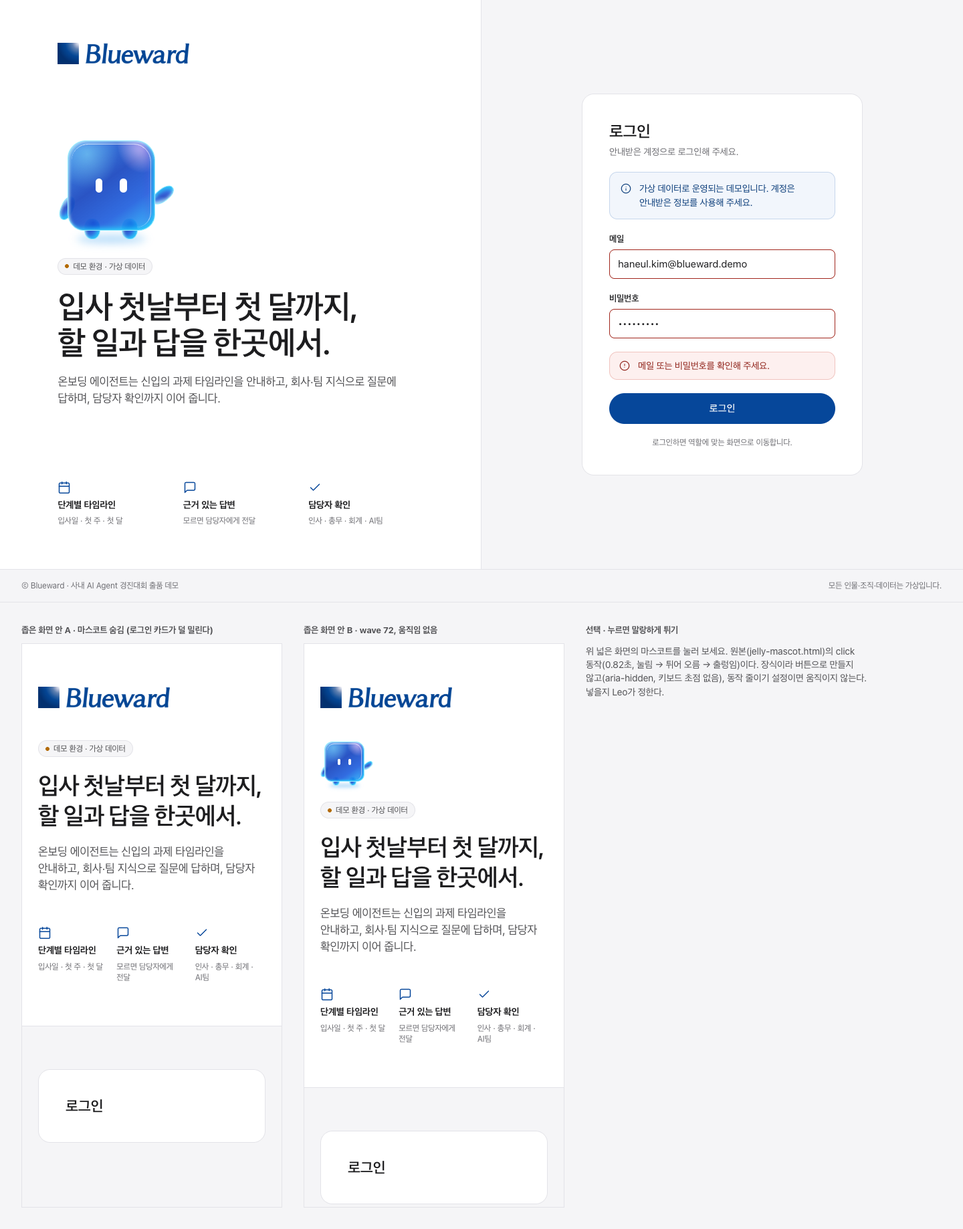
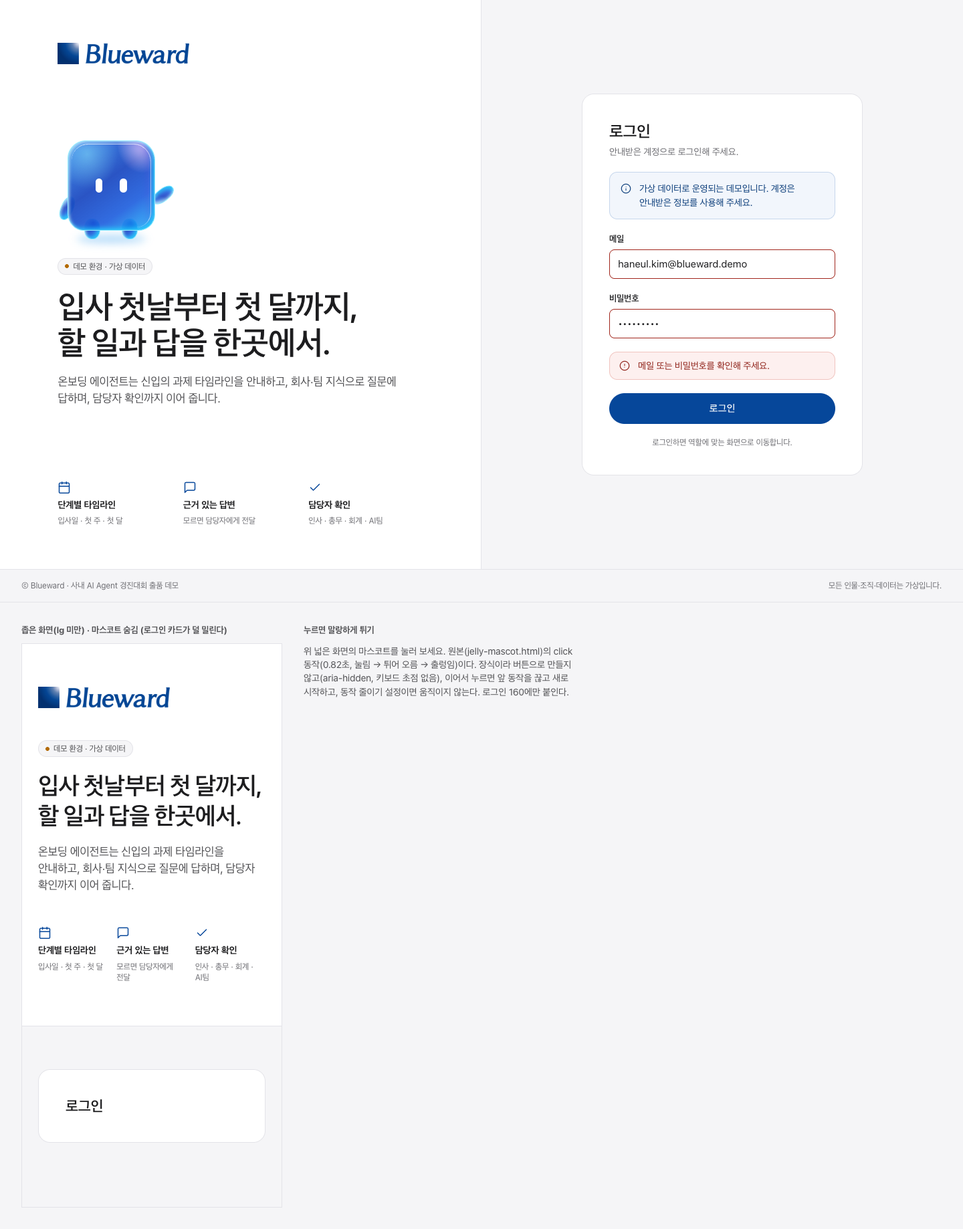
docs(design): settle the mascot options
Leo picked the options: the mobile ask button puts a sitting mascot in a
white circle, the login hides the mascot on narrow screens, the login
mascot bounces when tapped, and the waiting bubble shows a sitting
mascot (both right after sending and after 8 seconds). Drop the options
not taken from the mockups and finalize the system.md table.

diff --git a/docs/design/onboarding-design/screens/S0-system.html b/docs/design/onboarding-design/screens/S0-system.html
@@ -212,21 +212,20 @@
       <div class="grid-3" style="gap: 16px">
         <figure class="m-fig"><div class="m-stage" style="background: var(--surface)"><span class="mascot s-88" aria-hidden="true"><span class="shadow"></span><span class="float"><span class="cube"><i class="limb foot l"></i><i class="limb foot r"></i><i class="limb arm l"></i><i class="limb arm r"></i><span class="face"><i class="eye l"></i><i class="eye r"></i></span></span></span></span></div><b>stand · 에이전트 정체</b><span class="caption">채팅 머리(36). 지금 말하는 상대가 에이전트임을 알린다</span></figure>
         <figure class="m-fig"><div class="m-stage" style="background: var(--selected)"><span class="mascot s-88 is-wave is-idle" aria-hidden="true"><span class="shadow"></span><span class="float"><span class="cube"><i class="limb foot l"></i><i class="limb foot r"></i><i class="limb arm l"></i><i class="limb arm r"></i><span class="face"><i class="eye l"></i><i class="eye r"></i></span></span></span></span></div><b>wave · 환영·완료</b><span class="caption">대화 전 소개(88·72), 로그인(160), 모두 완료(48)</span></figure>
-        <figure class="m-fig"><div class="m-stage" style="background: var(--surface-chat)"><span class="mascot s-88 is-sit" aria-hidden="true"><span class="shadow"></span><span class="float"><span class="cube"><i class="limb foot l"></i><i class="limb foot r"></i><i class="limb arm l"></i><i class="limb arm r"></i><span class="face"><i class="eye l"></i><i class="eye r"></i></span></span></span></span></div><b>sit · 버튼 아이콘·기다림</b><span class="caption">모바일 묻기 버튼(28), 답변 기다림 안 B(20)</span></figure>
+        <figure class="m-fig"><div class="m-stage" style="background: var(--surface-chat)"><span class="mascot s-88 is-sit" aria-hidden="true"><span class="shadow"></span><span class="float"><span class="cube"><i class="limb foot l"></i><i class="limb foot r"></i><i class="limb arm l"></i><i class="limb arm r"></i><span class="face"><i class="eye l"></i><i class="eye r"></i></span></span></span></span></div><b>sit · 버튼 아이콘·기다림</b><span class="caption">모바일 묻기 버튼(28), 답변 기다림(20)</span></figure>
       </div>
 
       <div class="col" style="gap: 12px">
         <span class="label">크기 단계 · 이 일곱 값만 쓴다</span>
-        <div class="m-sizes"><figure class="m-size"><span class="mascot s-20 is-sit" aria-hidden="true"><span class="float"><span class="cube"><i class="limb foot l"></i><i class="limb foot r"></i><i class="limb arm l"></i><i class="limb arm r"></i><span class="face"><i class="eye l"></i><i class="eye r"></i></span></span></span></span><b>20</b><span class="caption">sit · S4 기다림(안 B)</span></figure><figure class="m-size"><span class="mascot s-28 is-sit" aria-hidden="true"><span class="float"><span class="cube"><i class="limb foot l"></i><i class="limb foot r"></i><i class="limb arm l"></i><i class="limb arm r"></i><span class="face"><i class="eye l"></i><i class="eye r"></i></span></span></span></span><b>28</b><span class="caption">sit · 모바일 묻기 버튼</span></figure><figure class="m-size"><span class="mascot s-36" aria-hidden="true"><span class="float"><span class="cube"><i class="limb foot l"></i><i class="limb foot r"></i><i class="limb arm l"></i><i class="limb arm r"></i><span class="face"><i class="eye l"></i><i class="eye r"></i></span></span></span></span><b>36</b><span class="caption">stand · 채팅 머리</span></figure><figure class="m-size"><span class="mascot s-48 is-wave" aria-hidden="true"><span class="float"><span class="cube"><i class="limb foot l"></i><i class="limb foot r"></i><i class="limb arm l"></i><i class="limb arm r"></i><span class="face"><i class="eye l"></i><i class="eye r"></i></span></span></span></span><b>48</b><span class="caption">wave · S2 모두 완료</span></figure><figure class="m-size"><span class="mascot s-72 is-wave" aria-hidden="true"><span class="shadow"></span><span class="float"><span class="cube"><i class="limb foot l"></i><i class="limb foot r"></i><i class="limb arm l"></i><i class="limb arm r"></i><span class="face"><i class="eye l"></i><i class="eye r"></i></span></span></span></span><b>72</b><span class="caption">wave · 모바일 대화 전 · 로그인 좁은 화면(안 B)</span></figure><figure class="m-size"><span class="mascot s-88 is-wave is-idle" aria-hidden="true"><span class="shadow"></span><span class="float"><span class="cube"><i class="limb foot l"></i><i class="limb foot r"></i><i class="limb arm l"></i><i class="limb arm r"></i><span class="face"><i class="eye l"></i><i class="eye r"></i></span></span></span></span><b>88</b><span class="caption">wave · 데스크톱 대화 전 · 움직임</span></figure><figure class="m-size"><span class="mascot s-160 is-wave is-idle" aria-hidden="true"><span class="shadow"></span><span class="float"><span class="cube"><i class="limb foot l"></i><i class="limb foot r"></i><i class="limb arm l"></i><i class="limb arm r"></i><span class="face"><i class="eye l"></i><i class="eye r"></i></span></span></span></span><b>160</b><span class="caption">wave · 로그인 넓은 화면 · 움직임</span></figure></div>
+        <div class="m-sizes"><figure class="m-size"><span class="mascot s-20 is-sit" aria-hidden="true"><span class="float"><span class="cube"><i class="limb foot l"></i><i class="limb foot r"></i><i class="limb arm l"></i><i class="limb arm r"></i><span class="face"><i class="eye l"></i><i class="eye r"></i></span></span></span></span><b>20</b><span class="caption">sit · S4 답변 기다림</span></figure><figure class="m-size"><span class="mascot s-28 is-sit" aria-hidden="true"><span class="float"><span class="cube"><i class="limb foot l"></i><i class="limb foot r"></i><i class="limb arm l"></i><i class="limb arm r"></i><span class="face"><i class="eye l"></i><i class="eye r"></i></span></span></span></span><b>28</b><span class="caption">sit · 모바일 묻기 버튼</span></figure><figure class="m-size"><span class="mascot s-36" aria-hidden="true"><span class="float"><span class="cube"><i class="limb foot l"></i><i class="limb foot r"></i><i class="limb arm l"></i><i class="limb arm r"></i><span class="face"><i class="eye l"></i><i class="eye r"></i></span></span></span></span><b>36</b><span class="caption">stand · 채팅 머리</span></figure><figure class="m-size"><span class="mascot s-48 is-wave" aria-hidden="true"><span class="float"><span class="cube"><i class="limb foot l"></i><i class="limb foot r"></i><i class="limb arm l"></i><i class="limb arm r"></i><span class="face"><i class="eye l"></i><i class="eye r"></i></span></span></span></span><b>48</b><span class="caption">wave · S2 모두 완료</span></figure><figure class="m-size"><span class="mascot s-72 is-wave" aria-hidden="true"><span class="shadow"></span><span class="float"><span class="cube"><i class="limb foot l"></i><i class="limb foot r"></i><i class="limb arm l"></i><i class="limb arm r"></i><span class="face"><i class="eye l"></i><i class="eye r"></i></span></span></span></span><b>72</b><span class="caption">wave · 모바일 대화 전</span></figure><figure class="m-size"><span class="mascot s-88 is-wave is-idle" aria-hidden="true"><span class="shadow"></span><span class="float"><span class="cube"><i class="limb foot l"></i><i class="limb foot r"></i><i class="limb arm l"></i><i class="limb arm r"></i><span class="face"><i class="eye l"></i><i class="eye r"></i></span></span></span></span><b>88</b><span class="caption">wave · 데스크톱 대화 전 · 움직임</span></figure><figure class="m-size"><span class="mascot s-160 is-wave is-idle" aria-hidden="true"><span class="shadow"></span><span class="float"><span class="cube"><i class="limb foot l"></i><i class="limb foot r"></i><i class="limb arm l"></i><i class="limb arm r"></i><span class="face"><i class="eye l"></i><i class="eye r"></i></span></span></span></span><b>160</b><span class="caption">wave · 로그인 넓은 화면 · 움직임 · 누르면 튀기</span></figure></div>
         <span class="caption">그림자는 64px 이상(72·88·160)에서만. 둥실 뜨기·깜빡임·손 흔들기 반복은 88px 이상에서만 켜고, 동작 줄이기 설정이면 모두 멈춘다.</span>
       </div>
 
       <div class="grid-2" style="align-items: start">
         <div class="col" style="gap: 12px">
-          <span class="label">모바일 "에이전트에게 묻기" 버튼 · 두 안 (Leo가 고른다)</span>
+          <span class="label">모바일 "에이전트에게 묻기" 버튼 · 흰 원 안에 sit 28</span>
           <div class="m-fab-row">
-            <figure class="m-fab"><a class="btn btn-primary btn-ask" style="box-shadow: 0 8px 24px rgba(6, 71, 154, 0.35)"><span class="mascot-base"><span class="mascot s-28 is-sit" aria-hidden="true"><span class="float"><span class="cube"><i class="limb foot l"></i><i class="limb foot r"></i><i class="limb arm l"></i><i class="limb arm r"></i><span class="face"><i class="eye l"></i><i class="eye r"></i></span></span></span></span></span>에이전트에게 묻기</a><b>안 A · 흰 원(36) 안에 sit 28</b><span class="caption">파란 면 위에 흰 바탕을 깔아 반투명이 묻히지 않는다. 버튼 높이 44 그대로</span></figure>
-            <figure class="m-fab"><a class="btn btn-primary" style="box-shadow: 0 8px 24px rgba(6, 71, 154, 0.35)"><svg class="ic" viewBox="0 0 24 24" aria-hidden="true"><path d="M21 15a2 2 0 0 1-2 2H7l-4 4V5a2 2 0 0 1 2-2h14a2 2 0 0 1 2 2z"></path></svg>에이전트에게 묻기</a><b>안 B · 지금 아이콘 그대로</b><span class="caption">마스코트는 패널을 연 뒤 머리·소개에서 만난다</span></figure>
+            <figure class="m-fab"><a class="btn btn-primary btn-ask" style="box-shadow: 0 8px 24px rgba(6, 71, 154, 0.35)"><span class="mascot-base"><span class="mascot s-28 is-sit" aria-hidden="true"><span class="float"><span class="cube"><i class="limb foot l"></i><i class="limb foot r"></i><i class="limb arm l"></i><i class="limb arm r"></i><span class="face"><i class="eye l"></i><i class="eye r"></i></span></span></span></span></span>에이전트에게 묻기</a><b>흰 원(36) 안에 sit 28</b><span class="caption">파란 면 위에 흰 바탕을 깔아 반투명이 묻히지 않는다. 버튼 높이 44 그대로</span></figure>
           </div>
           <figure class="m-fab m-dont"><a class="btn btn-primary" style="box-shadow: 0 8px 24px rgba(6, 71, 154, 0.35)"><span class="mascot s-28 is-sit" aria-hidden="true"><span class="float"><span class="cube"><i class="limb foot l"></i><i class="limb foot r"></i><i class="limb arm l"></i><i class="limb arm r"></i><span class="face"><i class="eye l"></i><i class="eye r"></i></span></span></span></span>에이전트에게 묻기</a><b>쓰지 않음 · 파란 면 위에 바로</b><span class="caption">테두리·빛이 파랑에 묻혀 얼룩처럼 보인다</span></figure>
         </div>
@@ -253,7 +252,7 @@
       </div>
 
       <dl class="spec plain" style="grid-template-columns: 96px 1fr">
-        <dt>쓰는 자리</dt><dd class="secondary">S4 채팅 머리(stand 36) · S4 대화 전 소개(wave 88, 모바일 72) · 모바일 묻기 버튼(sit 28, 안 A일 때) · S2 모두 완료(wave 48) · S1 로그인 소개(wave 160) · S4 답변 기다림(sit 20, 안 B일 때)</dd>
+        <dt>쓰는 자리</dt><dd class="secondary">S4 채팅 머리(stand 36) · S4 대화 전 소개(wave 88, 모바일 72) · 모바일 묻기 버튼(sit 28, 흰 원 안) · S2 모두 완료(wave 48) · S1 로그인 소개(wave 160, 넓은 화면만, 누르면 튀기) · S4 답변 기다림(sit 20)</dd>
         <dt>쓰지 않는 자리</dt><dd class="secondary">상단 바 Blueward 로고 · 역할 배지 · 표·상태 배지·버튼 안(모바일 묻기 버튼 제외) · 인쇄 화면(S8)·명함 미리보기 · 오류 안내(LoadError) · 빈 목록(EmptyState) · 담당자·관리자 화면. 역할별로 색을 바꾸거나 이름·말투를 붙이지 않는다</dd>
       </dl>
     </div>

diff --git a/docs/design/onboarding-design/screens/S1-login.html b/docs/design/onboarding-design/screens/S1-login.html
@@ -19,7 +19,7 @@ a{color:var(--primary)}a:hover{color:var(--primary-pressed)}
     <section style="flex: 1 1 480px; min-width: 0; padding: 64px clamp(24px, 6vw, 96px); display: flex; flex-direction: column; justify-content: space-between; gap: 48px; background: #ffffff; border-right: 1px solid var(--border)">
       <img src="../assets/blueward-logo.png" alt="Blueward" style="height: 32px; width: auto; align-self: flex-start">
       <div style="display: flex; flex-direction: column; gap: 20px; max-width: 520px">
-        <!-- 넓은 화면(lg 이상): wave 160, 움직임 켬. 장식이라 aria-hidden, 버튼으로 만들지 않는다 -->
+        <!-- 넓은 화면(lg 이상): wave 160, 움직임 켬, 누르면 튄다. 장식이라 aria-hidden, 버튼으로 만들지 않는다 -->
         <span class="mascot s-160 is-wave is-idle js-press" aria-hidden="true"><span class="shadow"></span><span class="float"><span class="cube"><i class="limb foot l"></i><i class="limb foot r"></i><i class="limb arm l"></i><i class="limb arm r"></i><span class="face"><i class="eye l"></i><i class="eye r"></i></span></span></span></span>
         <span class="demo-chip" style="align-self: flex-start"><span class="demo-dot"></span>데모 환경 · 가상 데이터</span>
         <h1 style="font-size: 48px; line-height: 54px; letter-spacing: -0.6px">입사 첫날부터 첫 달까지,<br>할 일과 답을 한곳에서.</h1>
@@ -76,10 +76,10 @@ a{color:var(--primary)}a:hover{color:var(--primary-pressed)}
   </footer>
 </div>
 
-<!-- 좁은 화면(lg 미만, 소개가 로그인 카드 위로 쌓인다) 두 안. Leo가 고른다 -->
+<!-- 좁은 화면(lg 미만, 소개가 로그인 카드 위로 쌓인다): 마스코트를 숨긴다(Leo 결정 2026-11-20) -->
 <div style="padding: 32px; background: var(--canvas); border-top: 1px solid var(--border); display: flex; flex-wrap: wrap; gap: 32px; align-items: flex-start">
   <div style="display: flex; flex-direction: column; gap: 10px">
-    <b style="font-size: 13px; color: var(--secondary)">좁은 화면 안 A · 마스코트 숨김 (로그인 카드가 덜 밀린다)</b>
+    <b style="font-size: 13px; color: var(--secondary)">좁은 화면(lg 미만) · 마스코트 숨김 (로그인 카드가 덜 밀린다)</b>
     <div style="width: 390px; height: 844px; overflow: hidden; background: var(--canvas); border: 1px solid var(--border)">
       <section style="padding: 64px 24px; display: flex; flex-direction: column; gap: 48px; background: #ffffff; border-bottom: 1px solid var(--border)">
         <img src="../assets/blueward-logo.png" alt="Blueward" style="height: 32px; width: auto; align-self: flex-start">
@@ -97,33 +97,14 @@ a{color:var(--primary)}a:hover{color:var(--primary-pressed)}
       <section style="padding: 64px 24px"><div class="card" style="padding: 40px"><h2 style="font-size: 22px; line-height: 28px">로그인</h2></div></section>
     </div>
   </div>
-  <div style="display: flex; flex-direction: column; gap: 10px">
-    <b style="font-size: 13px; color: var(--secondary)">좁은 화면 안 B · wave 72, 움직임 없음</b>
-    <div style="width: 390px; height: 844px; overflow: hidden; background: var(--canvas); border: 1px solid var(--border)">
-      <section style="padding: 64px 24px; display: flex; flex-direction: column; gap: 48px; background: #ffffff; border-bottom: 1px solid var(--border)">
-        <img src="../assets/blueward-logo.png" alt="Blueward" style="height: 32px; width: auto; align-self: flex-start">
-        <div style="display: flex; flex-direction: column; gap: 20px">
-          <span class="mascot s-72 is-wave" aria-hidden="true"><span class="shadow"></span><span class="float"><span class="cube"><i class="limb foot l"></i><i class="limb foot r"></i><i class="limb arm l"></i><i class="limb arm r"></i><span class="face"><i class="eye l"></i><i class="eye r"></i></span></span></span></span><span class="demo-chip" style="align-self: flex-start"><span class="demo-dot"></span>데모 환경 · 가상 데이터</span>
-          <h1 style="font-size: 36px; line-height: 45px; letter-spacing: -0.6px">입사 첫날부터 첫 달까지,<br>할 일과 답을 한곳에서.</h1>
-          <p style="font-size: 17px; line-height: 25px; color: var(--secondary)">온보딩 에이전트는 신입의 과제 타임라인을 안내하고, 회사·팀 지식으로 질문에 답하며, 담당자 확인까지 이어 줍니다.</p>
-        </div>
-        <div class="grid-3" style="gap: 12px">
-          <div style="display: flex; flex-direction: column; gap: 6px"><svg class="ic ic-lg" viewBox="0 0 24 24" aria-hidden="true" style="color: var(--primary)"><rect x="3" y="4" width="18" height="18" rx="2"></rect><path d="M16 2v4M8 2v4M3 10h18"></path></svg><b style="font-size: 14px">단계별 타임라인</b><span class="caption">입사일 · 첫 주 · 첫 달</span></div>
-          <div style="display: flex; flex-direction: column; gap: 6px"><svg class="ic ic-lg" viewBox="0 0 24 24" aria-hidden="true" style="color: var(--primary)"><path d="M21 15a2 2 0 0 1-2 2H7l-4 4V5a2 2 0 0 1 2-2h14a2 2 0 0 1 2 2z"></path></svg><b style="font-size: 14px">근거 있는 답변</b><span class="caption">모르면 담당자에게 전달</span></div>
-          <div style="display: flex; flex-direction: column; gap: 6px"><svg class="ic ic-lg" viewBox="0 0 24 24" aria-hidden="true" style="color: var(--primary)"><path d="M20 6 9 17l-5-5"></path></svg><b style="font-size: 14px">담당자 확인</b><span class="caption">인사 · 총무 · 회계 · AI팀</span></div>
-        </div>
-      </section>
-      <section style="padding: 64px 24px"><div class="card" style="padding: 40px"><h2 style="font-size: 22px; line-height: 28px">로그인</h2></div></section>
-    </div>
-  </div>
   <div style="flex: 1 1 320px; max-width: 420px; display: flex; flex-direction: column; gap: 12px">
-    <b style="font-size: 13px; color: var(--secondary)">선택 · 누르면 말랑하게 튀기</b>
-    <p class="secondary">위 넓은 화면의 마스코트를 눌러 보세요. 원본(jelly-mascot.html)의 click 동작(0.82초, 눌림 → 튀어 오름 → 출렁임)이다. 장식이라 버튼으로 만들지 않고(aria-hidden, 키보드 초점 없음), 동작 줄이기 설정이면 움직이지 않는다. 넣을지 Leo가 정한다.</p>
+    <b style="font-size: 13px; color: var(--secondary)">누르면 말랑하게 튀기</b>
+    <p class="secondary">위 넓은 화면의 마스코트를 눌러 보세요. 원본(jelly-mascot.html)의 click 동작(0.82초, 눌림 → 튀어 오름 → 출렁임)이다. 장식이라 버튼으로 만들지 않고(aria-hidden, 키보드 초점 없음), 이어서 누르면 앞 동작을 끊고 새로 시작하고, 동작 줄이기 설정이면 움직이지 않는다. 로그인 160에만 붙인다.</p>
   </div>
 </div>
 
 <script>
-// 선택 동작 견본: 원본 jelly-mascot.html의 click 애니메이션. 동작 줄이기 설정이면 하지 않는다
+// 누르면 튀기: 원본 jelly-mascot.html의 click 애니메이션. 동작 줄이기 설정이면 하지 않는다
 document.querySelectorAll('.js-press').forEach((el) => {
   el.style.cursor = 'pointer'
   el.addEventListener('click', () => {

diff --git a/docs/design/onboarding-design/screens/S4-chat-states.html b/docs/design/onboarding-design/screens/S4-chat-states.html
@@ -14,7 +14,7 @@ body{margin:0}
 a{color:var(--primary)}a:hover{color:var(--primary-pressed)}
 </style>
 
-<div style="width: 2616px; height: 760px; box-sizing: border-box; padding: 24px; background: var(--canvas); display: grid; grid-template-columns: repeat(8, minmax(0, 1fr)); gap: 24px">
+<div style="width: 2292px; height: 760px; box-sizing: border-box; padding: 24px; background: var(--canvas); display: grid; grid-template-columns: repeat(7, minmax(0, 1fr)); gap: 24px">
 
   <div style="display: flex; flex-direction: column; gap: 10px; min-height: 0">
     <b style="font-size: 13px; color: var(--secondary)">① 대화 전 · 아래 칩 줄 없음</b>
@@ -39,21 +39,7 @@ a{color:var(--primary)}a:hover{color:var(--primary-pressed)}
   </div>
 
   <div style="display: flex; flex-direction: column; gap: 10px; min-height: 0">
-    <b style="font-size: 13px; color: var(--secondary)">② 답변 기다리는 중 · 보낸 직후 (안 A · 지금)</b>
-    <div class="chat" style="flex: 1; min-height: 0">
-      <div class="chat-hd"><span class="mascot s-36" aria-hidden="true"><span class="float"><span class="cube"><i class="limb foot l"></i><i class="limb foot r"></i><i class="limb arm l"></i><i class="limb arm r"></i><span class="face"><i class="eye l"></i><i class="eye r"></i></span></span></span></span><b>온보딩 에이전트</b></div>
-      <div class="chat-bd" style="flex: 1">
-        <div class="msg-u">오늘 뭐 해야 해?</div>
-        <div class="msg-a"><span class="bubble" role="status" style="display: flex; align-items: center; gap: 10px; color: var(--muted)"><span class="typing" aria-hidden="true"><i></i><i style="opacity: .7"></i><i style="opacity: .45"></i></span><span>사내 지식과 내 과제를 확인하고 있어요</span></span></div>
-      </div>
-      <div class="chat-ft">
-        <div class="composer"><label for="w0" style="position: absolute; width: 1px; height: 1px; overflow: hidden; clip: rect(0 0 0 0)">질문 입력</label><textarea id="w0" rows="1" placeholder="답변이 끝나면 보낼 수 있어요" disabled></textarea><button class="send" type="button" aria-label="보내기" disabled style="background: var(--track); color: var(--disabled-fg)"><svg class="ic" viewBox="0 0 24 24" aria-hidden="true"><path d="M12 19V5M5 12l7-7 7 7"></path></svg></button></div>
-      </div>
-    </div>
-  </div>
-
-  <div style="display: flex; flex-direction: column; gap: 10px; min-height: 0">
-    <b style="font-size: 13px; color: var(--secondary)">② 안 B · 말풍선 안 왼쪽에 sit 20</b>
+    <b style="font-size: 13px; color: var(--secondary)">② 답변 기다리는 중 · 보낸 직후</b>
     <div class="chat" style="flex: 1; min-height: 0">
       <div class="chat-hd"><span class="mascot s-36" aria-hidden="true"><span class="float"><span class="cube"><i class="limb foot l"></i><i class="limb foot r"></i><i class="limb arm l"></i><i class="limb arm r"></i><span class="face"><i class="eye l"></i><i class="eye r"></i></span></span></span></span><b>온보딩 에이전트</b></div>
       <div class="chat-bd" style="flex: 1">
@@ -61,7 +47,7 @@ a{color:var(--primary)}a:hover{color:var(--primary-pressed)}
         <div class="msg-a"><span class="bubble" role="status" style="display: flex; align-items: center; gap: 10px; color: var(--muted)"><span class="mascot s-20 is-sit" aria-hidden="true"><span class="float"><span class="cube"><i class="limb foot l"></i><i class="limb foot r"></i><i class="limb arm l"></i><i class="limb arm r"></i><span class="face"><i class="eye l"></i><i class="eye r"></i></span></span></span></span><span class="typing" aria-hidden="true"><i></i><i style="opacity: .7"></i><i style="opacity: .45"></i></span><span>사내 지식과 내 과제를 확인하고 있어요</span></span></div>
       </div>
       <div class="chat-ft">
-        <div class="composer"><label for="w0b" style="position: absolute; width: 1px; height: 1px; overflow: hidden; clip: rect(0 0 0 0)">질문 입력</label><textarea id="w0b" rows="1" placeholder="답변이 끝나면 보낼 수 있어요" disabled></textarea><button class="send" type="button" aria-label="보내기" disabled style="background: var(--track); color: var(--disabled-fg)"><svg class="ic" viewBox="0 0 24 24" aria-hidden="true"><path d="M12 19V5M5 12l7-7 7 7"></path></svg></button></div>
+        <div class="composer"><label for="w0" style="position: absolute; width: 1px; height: 1px; overflow: hidden; clip: rect(0 0 0 0)">질문 입력</label><textarea id="w0" rows="1" placeholder="답변이 끝나면 보낼 수 있어요" disabled></textarea><button class="send" type="button" aria-label="보내기" disabled style="background: var(--track); color: var(--disabled-fg)"><svg class="ic" viewBox="0 0 24 24" aria-hidden="true"><path d="M12 19V5M5 12l7-7 7 7"></path></svg></button></div>
       </div>
     </div>
   </div>
@@ -72,7 +58,7 @@ a{color:var(--primary)}a:hover{color:var(--primary-pressed)}
       <div class="chat-hd"><span class="mascot s-36" aria-hidden="true"><span class="float"><span class="cube"><i class="limb foot l"></i><i class="limb foot r"></i><i class="limb arm l"></i><i class="limb arm r"></i><span class="face"><i class="eye l"></i><i class="eye r"></i></span></span></span></span><b>온보딩 에이전트</b></div>
       <div class="chat-bd" style="flex: 1">
         <div class="msg-u">오늘 뭐 해야 해?</div>
-        <div class="msg-a"><span class="bubble" role="status" style="display: flex; align-items: center; gap: 10px; color: var(--muted)"><span class="typing" aria-hidden="true"><i></i><i style="opacity: .7"></i><i style="opacity: .45"></i></span><span>답변이 조금 늦어지고 있어요. 잠시만 기다려 주세요.</span></span></div>
+        <div class="msg-a"><span class="bubble" role="status" style="display: flex; align-items: center; gap: 10px; color: var(--muted)"><span class="mascot s-20 is-sit" aria-hidden="true"><span class="float"><span class="cube"><i class="limb foot l"></i><i class="limb foot r"></i><i class="limb arm l"></i><i class="limb arm r"></i><span class="face"><i class="eye l"></i><i class="eye r"></i></span></span></span></span><span class="typing" aria-hidden="true"><i></i><i style="opacity: .7"></i><i style="opacity: .45"></i></span><span>답변이 조금 늦어지고 있어요. 잠시만 기다려 주세요.</span></span></div>
       </div>
       <div class="chat-ft">
         <div class="composer"><label for="w1" style="position: absolute; width: 1px; height: 1px; overflow: hidden; clip: rect(0 0 0 0)">질문 입력</label><textarea id="w1" rows="1" placeholder="답변이 끝나면 보낼 수 있어요" disabled></textarea><button class="send" type="button" aria-label="보내기" disabled style="background: var(--track); color: var(--disabled-fg)"><svg class="ic" viewBox="0 0 24 24" aria-hidden="true"><path d="M12 19V5M5 12l7-7 7 7"></path></svg></button></div>

diff --git a/docs/design/onboarding-design/screens/S2-me-mobile.html b/docs/design/onboarding-design/screens/S2-me-mobile.html
@@ -71,7 +71,7 @@ a{color:var(--primary)}a:hover{color:var(--primary-pressed)}
     </section>
   </main>
 
-  <!-- 안 A: 파란 버튼 위에서 반투명 마스코트가 묻히지 않게 흰 원(36) 안에 sit 28. 안 B(지금 아이콘)는 S0 마스코트 절 -->
+  <!-- 파란 버튼 위에서 반투명 마스코트가 묻히지 않게 흰 원(36) 안에 sit 28 -->
   <a href="S4-chat-mobile.html" class="btn btn-primary btn-ask" style="position: absolute; right: 16px; bottom: 24px; box-shadow: 0 8px 24px rgba(6, 71, 154, 0.35)"><span class="mascot-base"><span class="mascot s-28 is-sit" aria-hidden="true"><span class="float"><span class="cube"><i class="limb foot l"></i><i class="limb foot r"></i><i class="limb arm l"></i><i class="limb arm r"></i><span class="face"><i class="eye l"></i><i class="eye r"></i></span></span></span></span></span>에이전트에게 묻기</a>
 </div>
 

diff --git a/docs/design/onboarding-design/screens/S4-chat-mobile.html b/docs/design/onboarding-design/screens/S4-chat-mobile.html
@@ -35,7 +35,7 @@ a{color:var(--primary)}a:hover{color:var(--primary-pressed)}
     </div>
     <div class="msg-u">노트북 경비 계정과목이 뭐야?</div>
     <div class="msg-a">
-      <span class="bubble"><span class="typing" aria-label="답변 중"><i></i><i style="background: #c7c7cc"></i><i style="background: #d8d8dc"></i></span></span>
+      <span class="bubble" style="display: flex; align-items: center; gap: 10px"><span class="mascot s-20 is-sit" aria-hidden="true"><span class="float"><span class="cube"><i class="limb foot l"></i><i class="limb foot r"></i><i class="limb arm l"></i><i class="limb arm r"></i><span class="face"><i class="eye l"></i><i class="eye r"></i></span></span></span></span><span class="typing" aria-label="답변 중"><i></i><i style="background: #c7c7cc"></i><i style="background: #d8d8dc"></i></span></span>
     </div>
   </div>
 

diff --git a/docs/design/onboarding-design/assets/ui.css b/docs/design/onboarding-design/assets/ui.css
@@ -297,7 +297,7 @@ a{color:var(--link);text-decoration:none}a:hover{text-decoration:underline}
 @keyframes mascot-blink{0%,44%,48%,100%{scale:1 1}46%{scale:1 .12}}
 @keyframes mascot-wave{50%{rotate:-146deg}}
 @media (prefers-reduced-motion:reduce){.mascot *,.mascot *::before{animation:none!important;transition:none!important}}
-/* 진한 면(primary 버튼) 위에서는 흰 원을 깔고 그 안에 둔다. 모바일 "에이전트에게 묻기" 안 A */
+/* 진한 면(primary 버튼) 위에서는 흰 원을 깔고 그 안에 둔다. 모바일 "에이전트에게 묻기" 버튼 */
 .mascot-base{display:grid;place-items:center;width:36px;height:36px;border-radius:50%;background:var(--surface);flex:none}
 .btn-ask{padding:4px 21px 4px 4px;gap:10px}
 

diff --git a/.interface-design/system.md b/.interface-design/system.md
@@ -150,7 +150,7 @@
   - 대화 전에는 입력창 위 칩 줄을 숨긴다. 첫 메시지 뒤에는 칩 줄(36px 칩, 누르는 영역 44)이 돌아오고 본문 카드는 사라진다. 같은 질문 버튼이 두 곳에 동시에 있지 않다.
   - 데스크톱 고정 패널과 모바일 전체 화면이 같은 빈 상태를 쓴다.
 - **채팅 답변 기다리는 중(S4):**
-  - 첫 글자가 오기 전에는 답변 말풍선 자리에 점 세 개(`animate-pulse`, `bg-tertiary` 농도 3단계)와 지금 하는 일을 한 줄(`text-sm` muted)로 둔다. 점만 두지 않는다. 기다리는 이유가 보여야 한다.
+  - 첫 글자가 오기 전에는 답변 말풍선 자리에 앉은 마스코트(`sit` 20), 점 세 개(`animate-pulse`, `bg-tertiary` 농도 3단계)와 지금 하는 일을 한 줄(`text-sm` muted)로 둔다. 점만 두지 않는다. 기다리는 이유가 보여야 한다.
   - 말풍선은 답변과 같은 모양(`rounded-[18px_18px_18px_4px]`, `border-border`, `bg-card`, `px-3.5 py-3`)이라 첫 글자가 오면 자리가 바뀌지 않고 글자만 바뀐다.
   - 문구는 서버가 실제로 하는 일만 말한다. 시간으로 바꾸는 문구는 "늦어지고 있어요"처럼 기다림을 인정하는 말만 쓰고, 하지 않은 단계를 지어내지 않는다. 기준 시간은 8초다.
   - 말풍선은 `role="status"`다. 문구가 바뀌면 화면 읽기 프로그램이 다시 읽는다. 점은 `aria-hidden`이다.
@@ -168,7 +168,7 @@
 |---|---|---|
 | `stand` | 에이전트 정체 | S4 채팅 머리 |
 | `wave` (오른팔을 들어 흔듦) | 환영·완료 | S4 대화 전 소개, S1 로그인 소개, S2 모두 완료 |
-| `sit` (몸을 내리고 발을 앞으로 모음) | 버튼 아이콘·기다림 | 모바일 "에이전트에게 묻기" 버튼, S4 답변 기다림(안 B일 때) |
+| `sit` (몸을 내리고 발을 앞으로 모음) | 버튼 아이콘·기다림 | 모바일 "에이전트에게 묻기" 버튼, S4 답변 기다림 |
 
 - **크기 단계:** 20 · 28 · 36 · 48 · 72 · 88 · 160만 쓴다. 바깥 정사각형 한 변(`--size`)이고, 안쪽 빛·테두리는 `--k` = size/235로 맞춘다. 레이아웃이 밀리지 않게 그 정사각형 자리를 늘 차지한다. 바닥 그림자는 64px 이상(72·88·160)에서만 그린다.
 
@@ -178,15 +178,16 @@
 | S4 대화 전 소개 | `wave` 88, 모바일 전체 화면 72 | 88에서만 켬 |
 | 모바일 "에이전트에게 묻기" 버튼 | `sit` 28, 흰 원(36) 안 | 없음 |
 | S2 모두 완료(머리 카드의 축하 문구 앞) | `wave` 48 | 없음 |
-| S1 로그인 소개(넓은 화면, lg 이상) | `wave` 160, 데모 칩 위 | 켬 |
-| S4 답변 기다림(안 B일 때) | `sit` 20, 말풍선 안 점 앞 | 없음 |
+| S1 로그인 소개(넓은 화면, lg 이상) | `wave` 160, 데모 칩 위. lg 미만(소개가 로그인 카드 위로 쌓일 때)은 숨긴다 | 켬 + 누르면 튀기 |
+| S4 답변 기다림(보낸 직후·8초 뒤 모두) | `sit` 20, 말풍선 안 점 앞 | 없음(점만 pulse) |
 
 - **쓰지 않는 자리:** 상단 바 Blueward 로고, 역할 배지, 표·상태 배지·버튼 안(모바일 묻기 버튼 제외), 인쇄 화면(S8)·명함 미리보기, 오류 안내(`LoadError`), 빈 목록(`EmptyState`), 담당자·관리자 화면. 역할별로 색을 바꾼 마스코트를 만들지 않고, 이름·말투를 붙이거나 화면 문구를 바꾸지 않는다.
 - **색(새 색 금지의 유일한 예외):** `index.css` `:root`의 `--mascot-edge`, `--mascot-fill`(그라데이션 세 겹), `--mascot-glow-1~3`, `--mascot-shadow`, `--mascot-highlight`·`--mascot-highlight-2`(윗면 반사선), `--mascot-eye`로만 칠한다. 값은 견본 그대로다. 이 토큰은 마스코트 밖에서 쓰지 않고, 마스코트 `.tsx`에 hex를 쓰지 않는다.
 - **배경:** 반투명이라 뒤 면이 비친다. `bg-card`·`bg-background`·`bg-surface-chat`·`bg-accent` 위에만 둔다. `--primary` 같은 진한 면 위에는 흰 원(`bg-card`)을 깔고 그 안에 둔다. 파란 면 위에 바로 두면 테두리·빛이 묻혀 얼룩처럼 보인다.
 - **모션(예외):** 둥실 뜨기(3.3초)·깜빡임(4.6초)·손 흔들기(1.2초, `wave`만) 반복은 88px 이상 자리에서만 켠다(`idle`). 88 미만에서는 켜 달라고 해도 켜지 않는다. `transform`·`scale`·`rotate`만 움직이고, `prefers-reduced-motion`이면 모두 끈다. 그 밖의 UI 전환 규칙(150ms, `ease-out-ui`)은 그대로다.
+- **누르면 튀기(S1 로그인 160만):** 마스코트를 누르면 0.82초 동안 눌림 → 튀어 오름(원본 235px에서 27px, 크기에 비례) → 출렁임으로 말랑하게 튄다(`.cube`의 transform, 두 팔은 26°씩 벌렸다 돌아옴, `ease-in-out`). 원본 `jelly-mascot.html`의 click 동작 그대로다. 장식이라 버튼으로 만들지 않는다(`aria-hidden`, 키보드 초점 없음, `pointerdown`/`click`만). 이어서 누르면 앞 동작을 끊고 새로 시작하고, 동작 줄이기 설정이면 움직이지 않는다. 다른 자리에는 붙이지 않는다.
 - **접근성:** 장식이므로 루트에 `aria-hidden="true"`. 옆 글자("온보딩 에이전트", "에이전트에게 묻기", 축하 문구)가 이름을 맡는다. 마스코트를 버튼이나 링크로 만들지 않는다.
-- **Leo 확인 대기(1단계 PR):** 모바일 묻기 버튼(안 A 흰 원 + `sit` 28 / 안 B 지금 아이콘), 로그인 좁은 화면(안 A 숨김 / 안 B `wave` 72)과 누르면 튀는 동작을 넣을지, 답변 기다림(안 A 지금 / 안 B `sit` 20). 고른 뒤 이 줄을 지우고 위 표를 확정한다.
+- **결정(Leo, 2026-11-20):** 모바일 묻기 버튼은 흰 원 + `sit` 28, 로그인 좁은 화면은 숨김, 로그인 마스코트는 누르면 튄다, 답변 기다림은 `sit` 20을 둔다.
 
 ## 좁은 화면(모바일)
 
